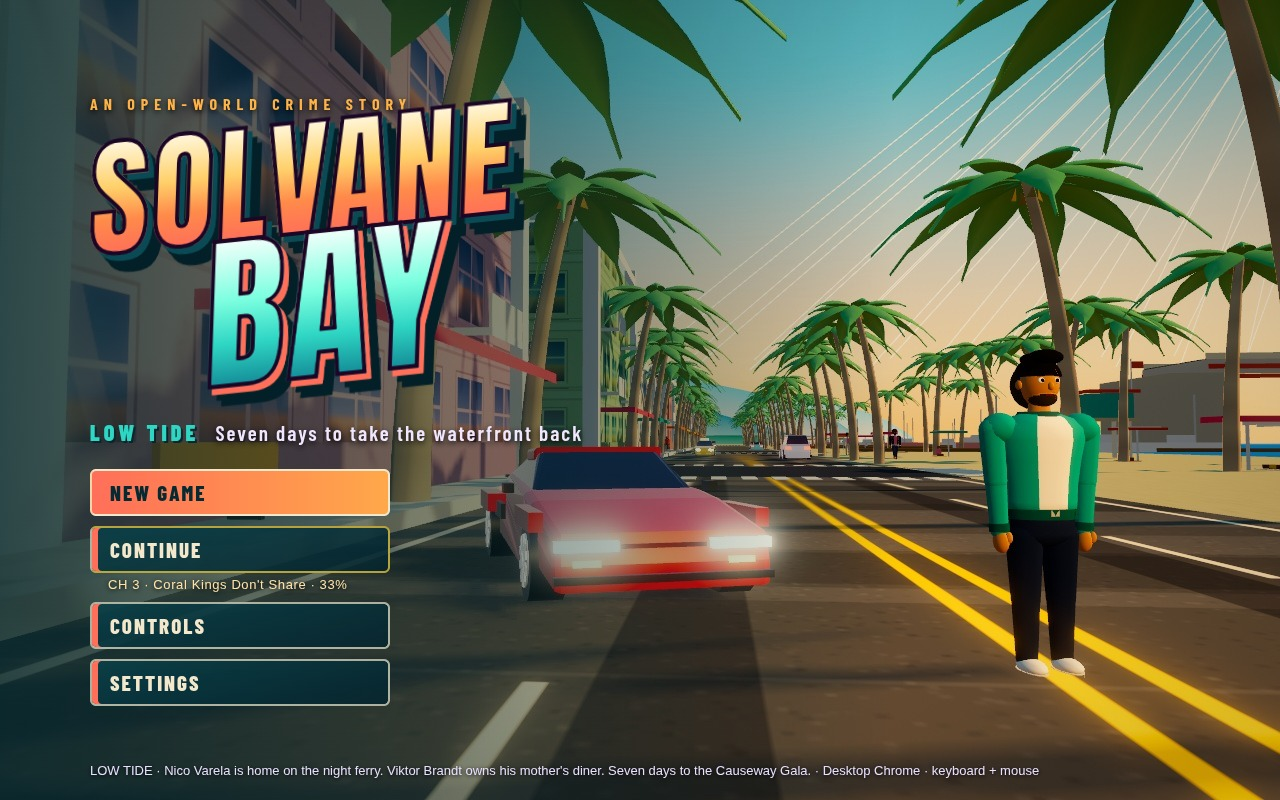
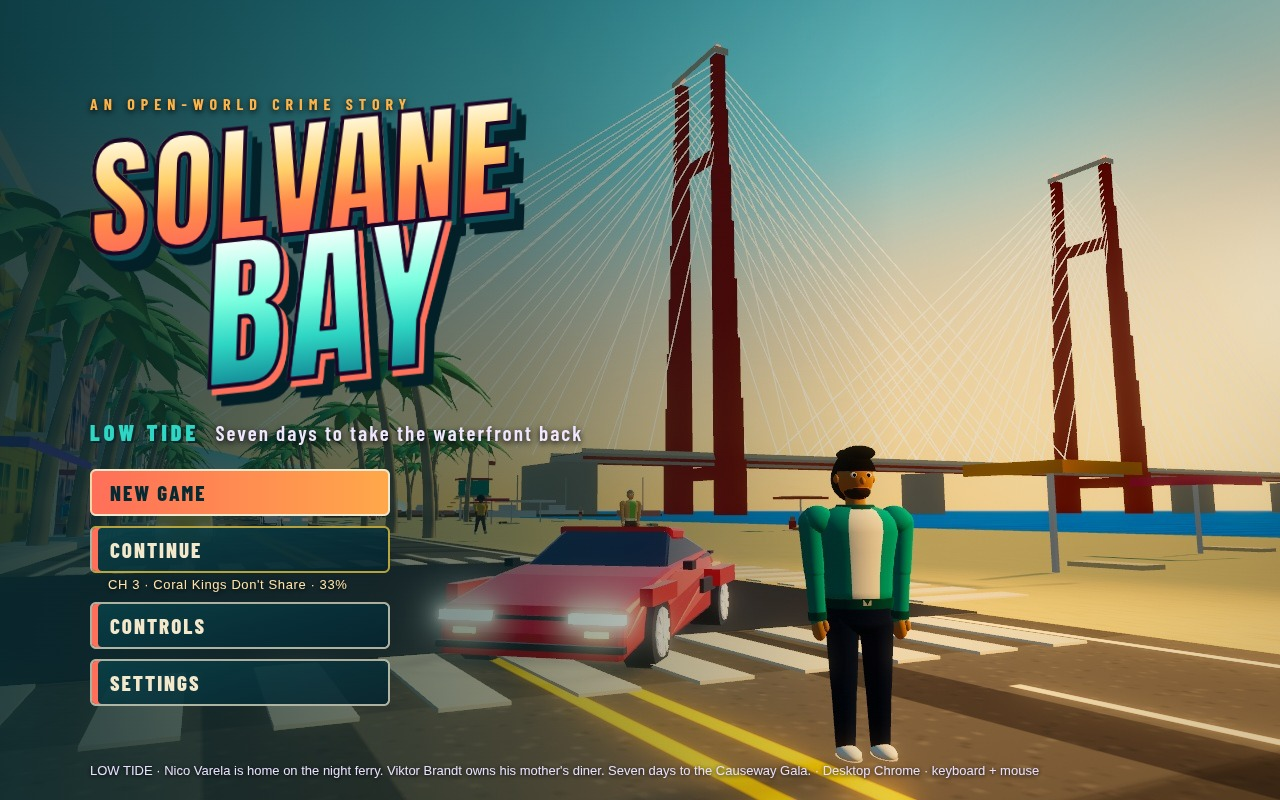
Title key art: low on the Strand looking north-east, both Causeway pylons and cable fans framed over the sea, VELOCE GT nose-on and Nico in front, palms thinned so no loose cables cross the sky

diff --git a/game/src/shots/screenshotScenes.js b/game/src/shots/screenshotScenes.js
@@ -125,19 +125,22 @@ function crewScreen(api) {
   // behind the panels: the Strand at golden hour, the sand, the sea and both Causeway pylons
   G.shotCrisp = true; G.shotCam = { pos: [HALF - 4, 9, 78], look: [HALF + 60, 24, -40], fov: 62 }; thinPalms(HALF - 4, 78, 15, 60, 6);
   for (let i = 0; i < 3; i++) api.renderFrame(true); api.showScreen('crew'); finish(api, 1); }
-// Key art: low angle on the beach road at golden hour, the VELOCE GT and Nico in front, palms, skyline and marina behind.
+// Key art: low on the Strand at golden hour looking north-east, the VELOCE GT and Nico in front, the sea gold under the
+// low sun and both coral Causeway pylons with their cable fans standing over it.
 function title(api) {
   clearTraffic(); seedSave({ v: 1, money: 3240, xp: 520, completed: ['m1', 'm2'], packages: [0, 1, 2, 3, 4, 5, 6, 7], owned: {}, ammo: {}, clock: 17.6, play: 4320, place: 'Palmetto Beach', at: '2026-11-18 17:35' });
-  G.mode = 'title'; G.clock = 16.7; G.magicForce = 0.7; G.exposure = 1.4; G.time = 30; rig.mode = 'aerial'; G.wanted.stars = 0;
-  const car = createCar('veloce', HALF - 3.4, 62.6, 0.35, 'parked', 0xd01020); car.mesh.position.set(car.x, 0, car.z); car.mesh.rotation.y = car.heading;
-  const p = G.p; p.x = HALF - 0.3; p.z = 66.2; p.yaw = 0.2; p.mesh.visible = true; p.mesh.position.set(p.x, 0, p.z); p.mesh.rotation.y = p.yaw; animateWalk(p.mesh, 0, 0, false);
+  G.mode = 'title'; G.clock = 16.75; G.magicForce = 0.8; G.exposure = 1.3; G.time = 30; rig.mode = 'aerial'; G.wanted.stars = 0; G.shotCrisp = true;
+  const C = { x: HALF - 3, z: 112 }, at = (deg, d) => [C.x + Math.sin(deg * Math.PI / 180) * d, C.z - Math.cos(deg * Math.PI / 180) * d];
+  const [vx, vz] = at(25, 10), car = createCar('veloce', vx, vz, -0.75, 'parked', 0xd01020); car.mesh.position.set(car.x, 0, car.z); car.mesh.rotation.y = car.heading;
+  const [nx, nz] = at(41, 5.6), p = G.p; p.x = nx; p.z = nz; p.yaw = -0.35; p.mesh.visible = true; p.mesh.position.set(p.x, 0, p.z); p.mesh.rotation.y = p.yaw; animateWalk(p.mesh, 0, 0, false);
   const tc = (key, z, dir, col) => { const c = placeTraffic('z', N, z, dir, key, 'traffic', col); c.mesh.position.set(c.x, 0, c.z); c.mesh.rotation.y = c.heading; return c; };
-  tc('tupelo', -10, 1, 0xf6c21c); tc('rumble', -60, -1, 0x8fd3c8); tc('pico', -120, 1, 0xff8a3d); tc('hawke', 6, -1, 0xf0f0f0);
-  [[-4, 1, 1], [-22, 1, -1], [-40, -1, 1], [16, 1, 1], [-70, -1, -1]].forEach(([z, sd, d], i) => { const a = spawnPed('z', N, z, sd, d); animateWalk(a.mesh, i * 1.3, 0.6, false); a.mesh.position.y = 0.25; a.y = 0.25; });
-  // sunlit foreground: a warm low key from the sea side washes the near asphalt and kerb in late sun
-  const key = new THREE.SpotLight(0xffc27e, 1400, 90, 0.5, 0.7, 1.6); key.position.set(HALF + 18, 16, 98); key.target.position.set(HALF - 9, 0, 70); G.scene.add(key, key.target);
+  tc('tidebus', 70, 1); tc('rumble', 40, -1, 0x8fd3c8); tc('pico', -10, 1, 0xff8a3d); tc('hawke', 20, -1, 0xf0f0f0);
+  [[88, 1, 1], [72, 1, -1], [60, -1, 1], [50, 1, 1], [30, -1, -1]].forEach(([z, sd, d], i) => { const a = spawnPed('z', N, z, sd, d); animateWalk(a.mesh, i * 1.3, 0.6, false); a.mesh.position.y = 0.25; a.y = 0.25; });
+  thinPalms(C.x, C.z, 16, 72, 10);
+  // sunlit foreground: a warm low key from the sea side washes the near asphalt, the car and Nico in late sun
+  const key = new THREE.SpotLight(0xffc27e, 1200, 90, 0.5, 0.7, 1.6); key.position.set(HALF + 18, 16, 128); key.target.position.set(HALF - 1, 0, 102); G.scene.add(key, key.target);
   if (G.roadMat) G.roadMat.color.setRGB(1.45, 1.22, 1.0); if (G.post) G.post.params.vignette = 0.3;
-  G.titleCam = { x: HALF - 2.2, y: 1.35, z: 71.5, tx: HALF - 6, ty: 3.4, tz: 30 };
+  { const [tx, tz] = at(27, 40); G.titleCam = { x: C.x, y: 1.5, z: C.z, tx, ty: 6.6, tz }; }
   api.showHud(false); api.showScreen('title'); finish(api, 2); }
 
 export async function runShot(name, api) {
